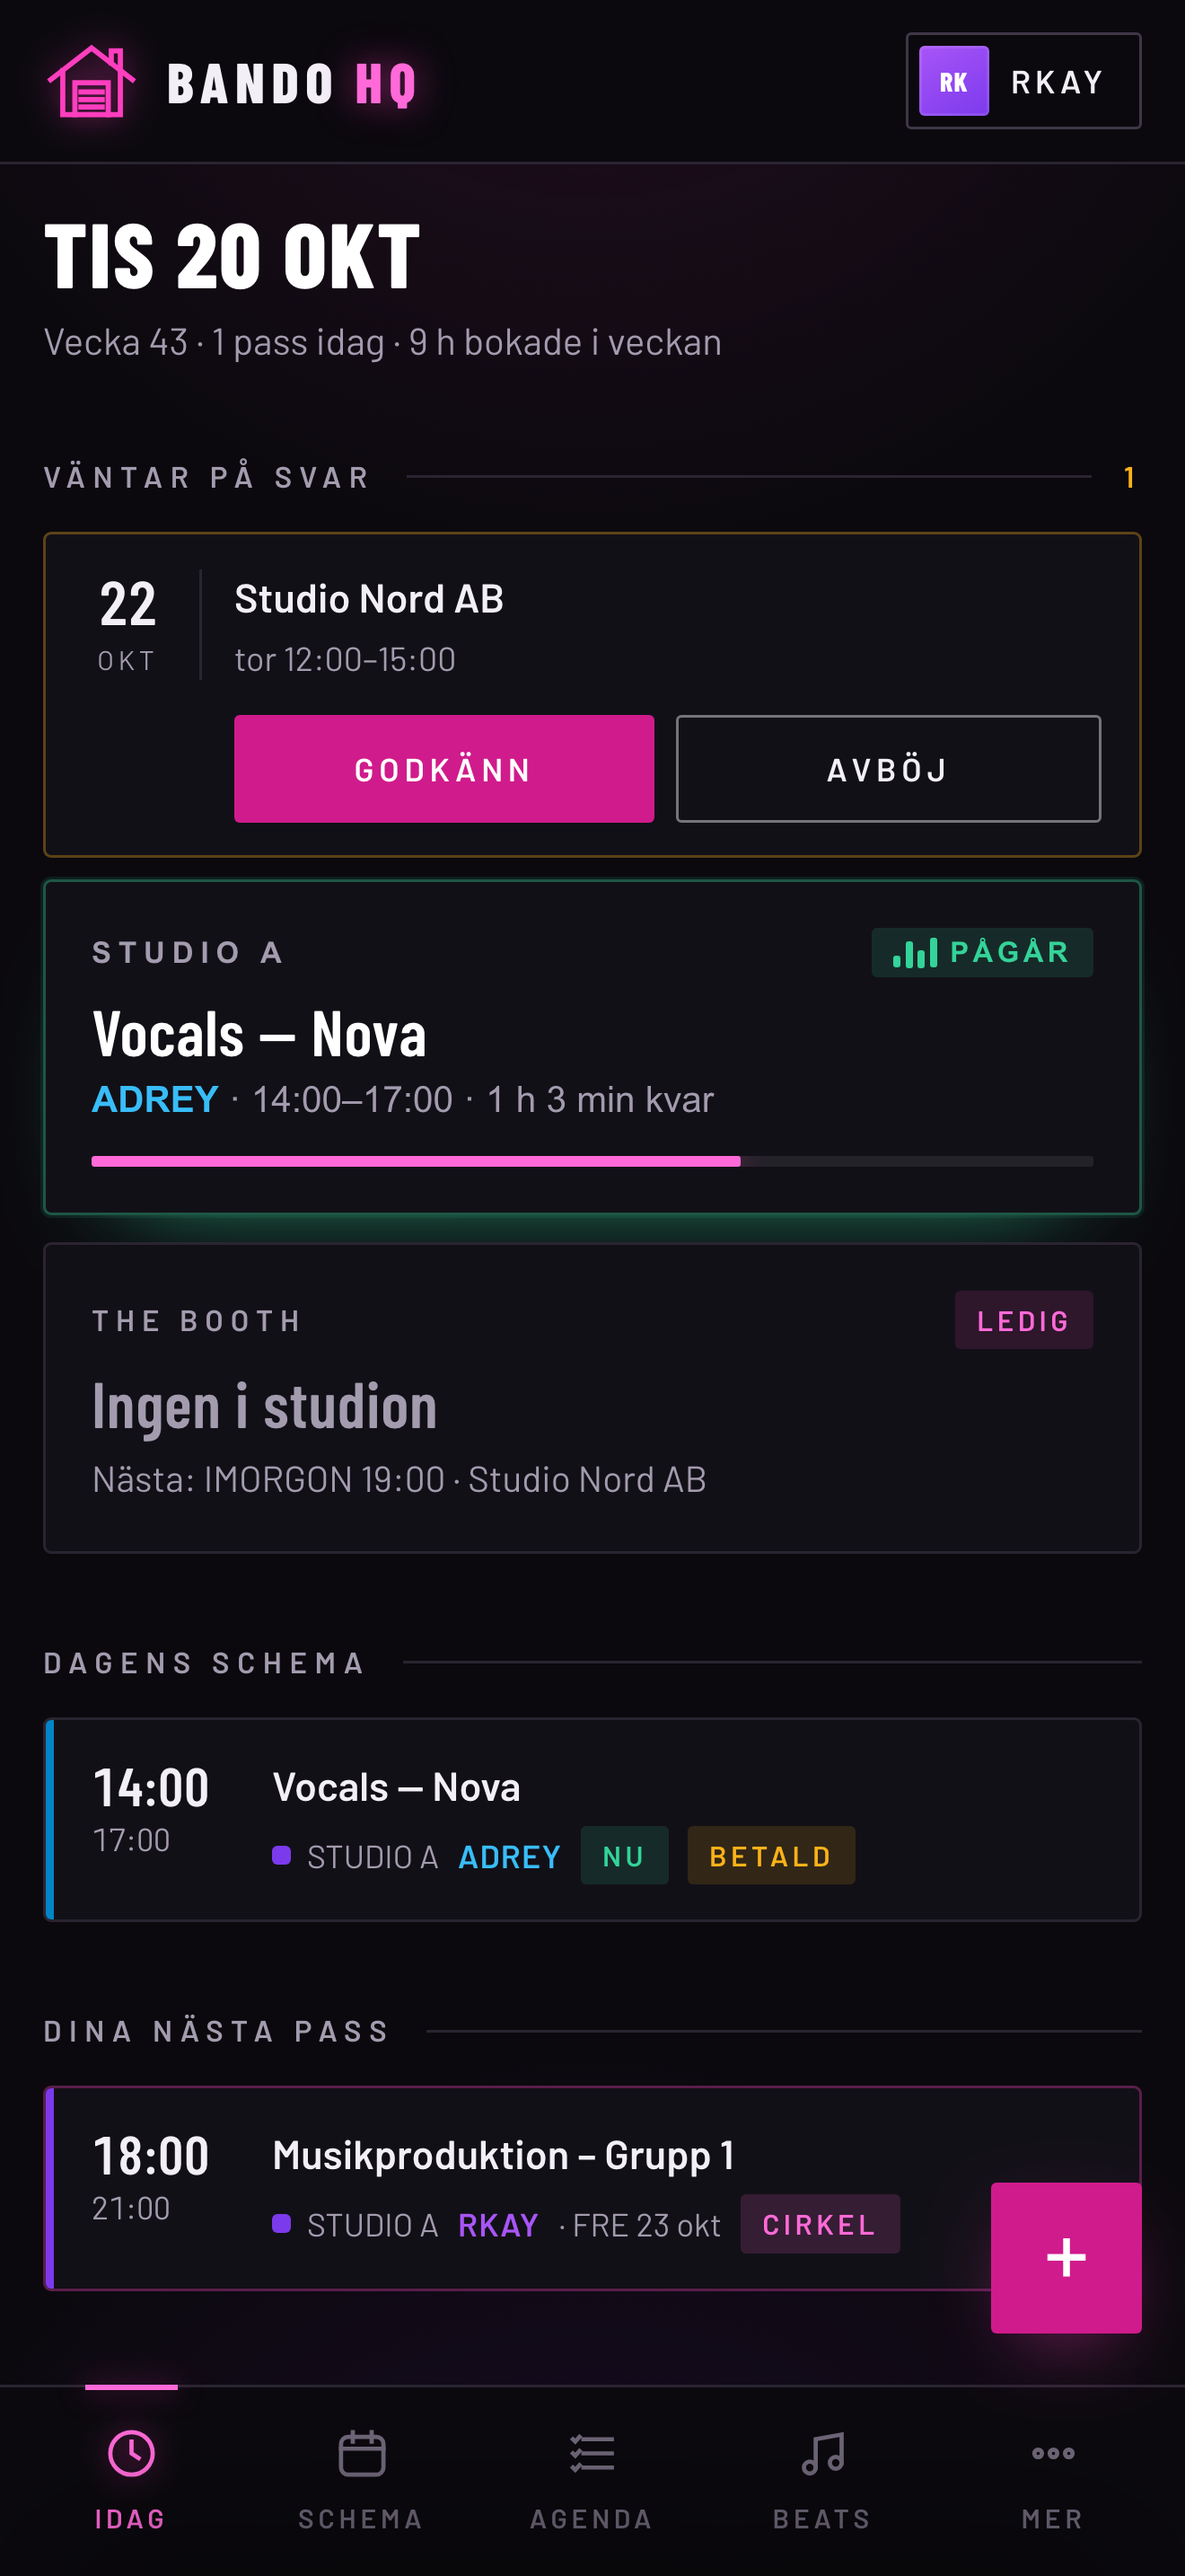
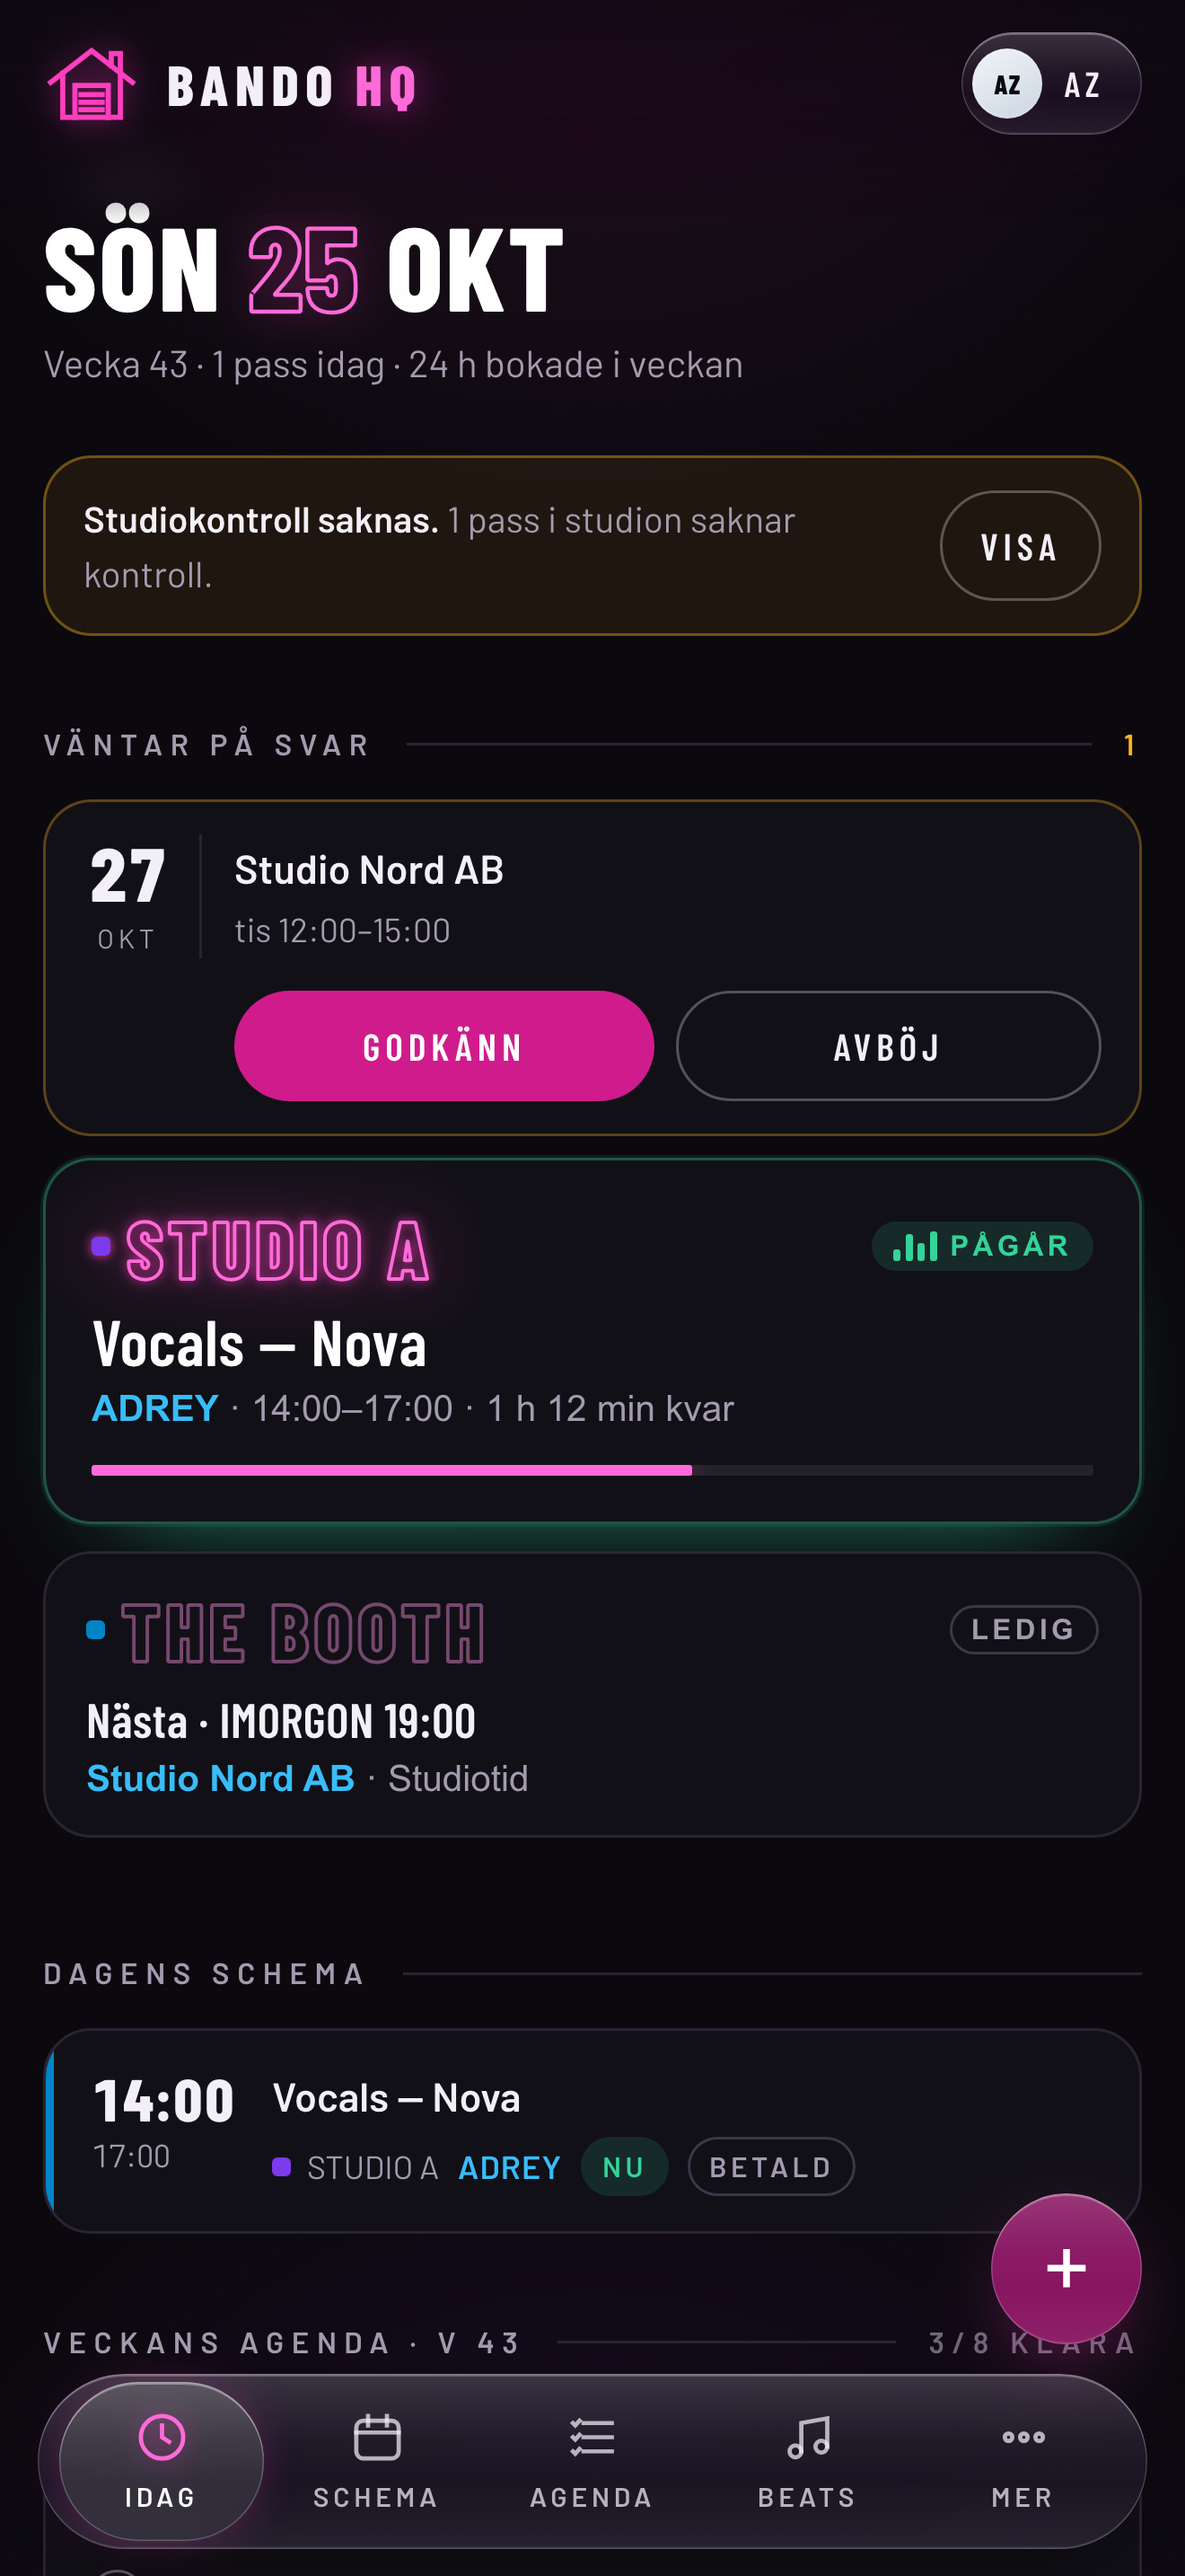
App Store: nya skärmbilder med Liquid Glass, texter med Dynamic Island

diff --git a/app/store/APP-STORE.md b/app/store/APP-STORE.md
@@ -1,10 +1,10 @@
 # BANDOHQ i App Store: det som fylls i i App Store Connect
 
 Allt nedan klistras in under **Appar → BANDOHQ** i App Store Connect. Bilderna ligger i
-`skarmbilder/` (1320 × 2868, iPhone 6,9"). Gör nya med:
+`skarmbilder/` (1320 × 2868, iPhone 6,9", med Liquid Glass). Gör nya med:
 
 ```
-python3 test/run.py shot '…' bild.png 440 956 3
+python3 test/run.py shot '…&glass=1' bild.png 440 956 3
 ```
 
 ## Appinformation
@@ -19,8 +19,8 @@ python3 test/run.py shot '…' bild.png 440 956 3
 | Innehållsrätt | Appen visar inget innehåll från tredje part |
 | Åldersgräns | 4+ (svara "nej" på allt i frågeformuläret) |
 | Copyright | 2026 Bando Collective |
-| Integritetspolicy-URL | https://bandohq.se/#integritet |
-| Support-URL | https://bandohq.se/#support |
+| Integritetspolicy-URL | https://www.bandohq.se/#integritet |
+| Support-URL | https://www.bandohq.se/#support |
 | Marknadsförings-URL | https://bandocollective.com (valfritt) |
 | Pris | gratis, inga köp i appen |
 
@@ -52,8 +52,12 @@ FÖR STUDIECIRKLARNA
 Cirkelledaren bokar pass, godkänner förslag och markerar närvaro. Deltagarna föreslår tider i
 sin cirkel.
 
-NOTISER
-Bokningsbekräftelser, svar på förfrågningar och påminnelser dagen innan, direkt i telefonen.
+NOTISER OCH DYNAMIC ISLAND
+Bokningsbekräftelser, svar på förfrågningar och påminnelser dagen innan, direkt i telefonen. När
+din session pågår ser du tiden som är kvar i Dynamic Island och på låsskärmen.
+
+GJORD FÖR IPHONE
+Liquid Glass på iOS 26, och länkar från mejl och sms öppnar appen direkt.
 
 Bando HQ Access ges via inbjudan: skicka en förfrågan i appen, så mejlar vi dig en inbjudan. Crewet får sina konton med en inbjudan från
 Bando Collective.
@@ -89,6 +93,11 @@ studio,boka,studiotid,inspelning,musik,producent,studiecirkel,crew,beats,schema,
 > fully-featured demo mode with sample data (no real people), so you can review every role.
 > Tap the name in the top right, then "BYT KONTO", to view the app as a producer, admin, camera
 > team member, circle leader, participant or customer.
+>
+> Live Activities: while the signed-in person's own studio session is in progress, a Live Activity
+> shows the studio and the time remaining in the Dynamic Island and on the Lock Screen. The app
+> starts it, and our server starts it with a push-to-start notification when the session begins.
+> It can be turned off under the name in the top right → IPHONE.
 >
 > Account deletion: tap the name in the top right, then "Radera mitt konto" (Delete my account).
 >
